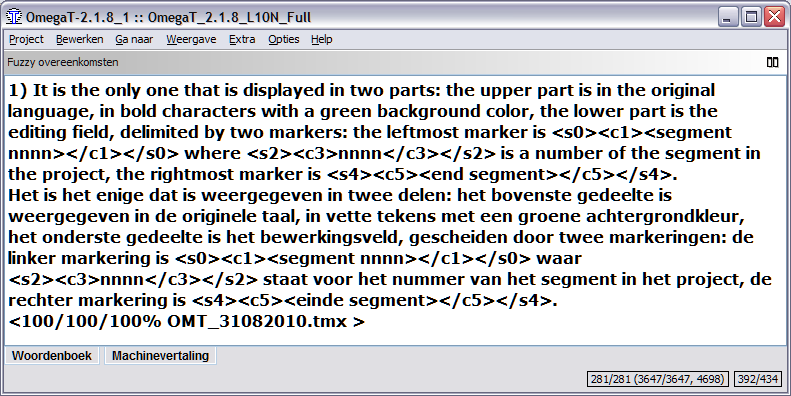
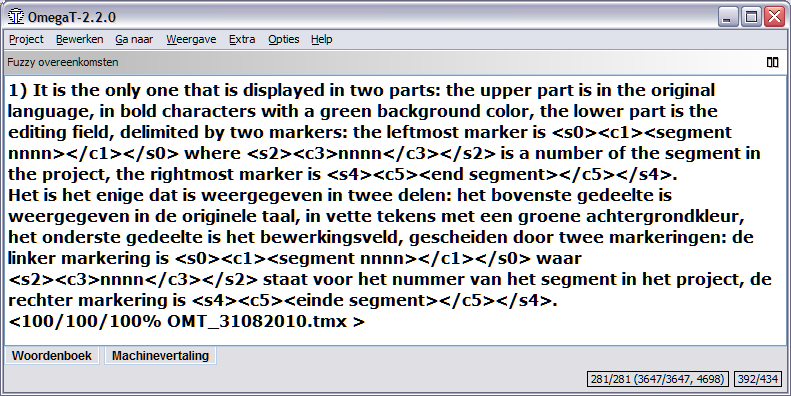
Dutch localisation updated to 2.2.0 (UI, Readme, documentation)
git-svn-id: https://omegat.svn.sourceforge.net/svnroot/omegat@3201 b0d8beef-cb45-0410-a8e4-c0d495c3b779

Changed region(s): [[0.0, 0.0, 0.3944, 0.0606]]

diff --git a/trunk/docs/nl/translationMemories.html b/trunk/docs/nl/translationMemories.html
@@ -15,7 +15,7 @@
       <ul>
         <li><a href="#TMX_files_locations_and_purpose">Locatie en doel</a></li>
 
-        <li><a href="#TMX_backup">TMX backup</a></li>
+        <li><a href="#TMX_backup">TMX back-up</a></li>
 
         <li><a href="#TMX_files_and_language">TMX en taal</a></li>
       </ul>
@@ -53,7 +53,7 @@
 
   <ul>
     <li>
-      <p>De map <em>/omegat/</em> bevat <em>project_save.tmx</em> en eventueel een aantal backups van TMX-bestanden.</p>
+      <p>De map <em>/omegat/</em> bevat <em>project_save.tmx</em> en eventueel een aantal back-ups van TMX-bestanden.</p>
 
       <p>Het bestand <em>project_save.tmx</em> bevat alle segmenten die zijn onthouden sinds u het project startte.</p>
     </li>
@@ -80,18 +80,18 @@
       </ul>
     </li>
 
-    <li>De map <em>/tm/</em> kan elk aantal TMX-bestanden bevatten. Zulke bestanden moeten correcte TMXbestanden zijn en kunnen ofwel alleen tekstuele informatie bevatten (niveau 1 TMX), OmegaT tekstuele en opmaakinformatie (omegat TMX) of TMX tekstuele en opmaakinformatie (niveau 2 TMX). De verschillen tussen hen zijn technisch van aard (zie hieronder voor de details), en als u een vertaalgeheugen uit een eerder project wilt gebruiken, zijn zij grotendeels uitwisselbaar, dat is zij zullen allemaal goed werken.
+    <li>De map <em>/tm/</em> kan elk aantal TMX-bestanden bevatten. Zulke bestanden moeten correcte TMX-bestanden zijn en kunnen ofwel alleen tekstuele informatie bevatten (niveau 1 TMX), OmegaT tekstuele en opmaakinformatie (omegat TMX) of TMX tekstuele en opmaakinformatie (niveau 2 TMX). De verschillen tussen hen zijn technisch van aard (zie hieronder voor de details), en als u een vertaalgeheugen uit een eerder project wilt gebruiken, zijn zij grotendeels uitwisselbaar, dat is zij zullen allemaal goed werken.
     </li>
   </ul>
-  <p>Optioneel kunt u OmegaT een aanvullend TMXbestand (OmegaT-stijl) laten maken, ergens waar u dat opgeeft, dat alle vertaalbare segmenten van het project bevat. Zie <a href="#pseudo_translate">pseudo-vertaald geheugen</a>.</p>
+  <p>Optioneel kunt u OmegaT een aanvullend TMX-bestand (OmegaT-stijl) laten maken, ergens waar u dat opgeeft, dat alle vertaalbare segmenten van het project bevat. Zie <a href="#pseudo_translate">pseudo-vertaald geheugen</a>.</p>
   
 
   <a name="TMX_backup" id="TMX_backup"></a>
-  <h3>TMX backup</h3>
+  <h3>TMX back-up</h3>
 
   <p>Bij het vertalen van uw bestanden slaat OmegaT al uw voortgang op in het vertaalgeheugen in de submap <em>/omegat</em> van het project.</p>
 
-  <p>OmegaT maakt ook, elke keer als een project wordt geopend of herladen, een backup van het vertaalgeheugen in <em>project_save.tmx.JAARMMDDUUMM.bak</em> in dezelfde submap. <em>JAAR</em> is 4-getallen jaar, <em>MM</em> is een maand, <em>DD</em> dag van de maand, <em>UU</em> en <em>MM</em> zijn uren en minuten van wanneer het vorige vertaalgeheugen werd opgeslagen.</p>
+  <p>OmegaT maakt ook, elke keer als een project wordt geopend of herladen, een back-up van het vertaalgeheugen in <em>project_save.tmx.JAARMMDDUUMM.bak</em> in dezelfde submap. <em>JAAR</em> is 4-getallen jaar, <em>MM</em> is een maand, <em>DD</em> dag van de maand, <em>UU</em> en <em>MM</em> zijn uren en minuten van wanneer het vorige vertaalgeheugen werd opgeslagen.</p>
 
   <p>Als u denkt dat u vertaalde gegevens kwijt bent, volg dan deze procedure:</p>
 
@@ -100,7 +100,7 @@
 
     <li>hernoem het huidige <em>project_save.tmx</em>-bestand naar iets dat u zult onthouden (zoals bijvoorbeeld <em>project_save.tmx.tijdelijk</em>)</li>
 
-    <li>selecteer de backup van het vertaalgeheugen dat meest waarschijnlijk de gegevens bevat die u nodig hebt</li>
+    <li>selecteer de back-up van het vertaalgeheugen dat meest waarschijnlijk de gegevens bevat die u nodig hebt</li>
 
     <li>hernoem het naar <em>project_save.tmx</em></li>
 
@@ -109,7 +109,7 @@
 
   <h3>TMX-bestanden en taal</h3>
 
-  <p>TMXbestanden bevatten <i>vertaaleenheden</i> die zijn gemaakt van een aantal equivalente segmenten in verschillende talen. Een vertaaleenheid bestaat uit ten minste twee <i>vertaaleenheid variaties</i> (tuv). Beide kunnen als bron of doel worden gebruikt.</p>
+  <p>TMX-bestanden bevatten <i>vertaaleenheden</i> die zijn gemaakt van een aantal equivalente segmenten in verschillende talen. Een vertaaleenheid bestaat uit ten minste twee <i>vertaaleenheid variaties</i> (tuv). Beide kunnen als bron of doel worden gebruikt.</p>
 
   <p>De instellingen in uw project zullen aangeven wat de bron- en wat de doeltaal is. OmegaT zal dus de <strong>tuv</strong> nemen die overeenkomt met de brontaalcode van het project en dat segment gebruiken als het bronsegment en het zal de <strong>tuv</strong> nemen die overeenkomt met de doeltaalcode van het project en dat segment gebruiken als het doelsegment. OmegaT herkent ze met behulp van de twee volgende standaardconventies:</p>
 
@@ -150,7 +150,7 @@
     <li>Als u een nieuw project begint voor hetzelfde onderwerp of voor dezelfde klant, navigeer naar de voorraadmap in het dialoogvenster <em>Project &gt; Eigenschappen &gt; Project bewerken</em> en selecteer het als de map voor het vertaalgeheugen.</li>
   </ul>
 
-  <p>Onthoud wel dat alle TMX-bestanden in de voorraadmap <em>/tm</em> worden geparsed tijdens het opstarten van het programma, dus als u daarin alle TMX-bestanden plaats die u tegenkomt zal dat OmegaT onnodig langzamer maken. U zou zelfs kunnen overwegen om die, welke strikt noodzakelijk zijn, uit te schakelen (bijvoorbeeld door ze in de submap <em>/tm</em> te laten staan, maar hun extensie te wijzigen), als hun inhoud eenmaal is geladen in de <em>project_save.tmx</em> van uw huidige project.</p>
+  <p>Onthoud wel dat alle TMX-bestanden in de voorraadmap <em>/tm</em> worden geparset tijdens het opstarten van het programma, dus als u daarin alle TMX-bestanden plaats die u tegenkomt zal dat OmegaT onnodig langzamer maken. U zou zelfs kunnen overwegen om die, welke strikt noodzakelijk zijn, uit te schakelen (bijvoorbeeld door ze in de submap <em>/tm</em> te laten staan, maar hun extensie te wijzigen), als hun inhoud eenmaal is geladen in de <em>project_save.tmx</em> van uw huidige project.</p>
 
   <p><a name="using_memories" id="using_memories"></a></p>
 

diff --git a/trunk/docs/nl/glossaries.html b/trunk/docs/nl/glossaries.html
@@ -39,7 +39,7 @@ Het woord voor het =-teken is de bronterm en de vertaling is (of zijn) de woorde
 <p>Woordenlijstbestanden zijn eenvoudige platte tekst-bestanden die drie-kolommen, tabgescheiden lijsten bevatten met de bron- en doeltermen in respectievelijk de eerste en tweede kolom. De derde kolom kan worden gebruikt voor aanvullende informatie. Woordenlijstbestanden kunnen of in de standaard systeemcodering (en aangegeven door de extensie <code>.tab</code>) zijn of in UTF-8 (de extensie <code>.utf8</code>). De codering Unicode (UTF8) wordt om voor de hand liggende redenen aanbevolen.</p>
 <hr>
 <h2><a name="howtocreate" id="howtocreate"></a>Hoe zijn woordenlijsten te maken</h2>
-Deze methode is ook geschikt voor "dwazen", mits op een redelijk behoedzame manier gevolgd. U heeft er OpenOffice.org Writer voor nodig, dus - als u dat al niet heeft gedaan - download en installeer OpenOffice.org. Start OpenOffice.org en open een nieuw tekstdocument of start "OpenOffice.org Writer".<br> <br> Voer uw termen voor de woordenlijst als volgt in het lege document in: een term in de brontaal, tab, de term in de doeltaal, tab, een opmerking of uitleg voor het item en dan&nbsp;Return. Tab is de tabulator-toets aan de linkerzijde van het toetsenbord. Indien u geen opmerkingen wilt toevoegen, kunt u de tweede tab weglaten. Een "term" kan één enkel woord zijn of een hele frase. Op de tweede regel voert u de tweede term en diens vertaling in. <br> Als u gereed bent met het invoeren van de termen, zult u twee "kolommen" met termen hebben, termen in de brontaal links en hun termen in de doeltaal aan recht en mogelijk een derde kolom, die uw opmerkingen en uitleg bevat. De tekens tab (→ in het voorbeeld hieronder)&nbsp;en Enter (¶&nbsp;) kunnen zichtbaar worden gemaakt door te klikken op het pictogram ¶ op de werkbalk Standaard van Writer. Hier zijn een aantal regels van een&nbsp;Engels -Duitse woordenlijst)<br>
+Deze methode is ook geschikt voor "dwazen", mits op een redelijk behoedzame manier gevolgd. U heeft er OpenOffice.org Writer voor nodig, dus - als u dat al niet heeft gedaan - download en installeer OpenOffice.org. Start OpenOffice.org en open een nieuw tekstdocument of start "OpenOffice.org Writer".<br> <br> Voer uw termen voor de woordenlijst als volgt in het lege document in: een term in de brontaal, tab, de term in de doeltaal, tab, een opmerking of uitleg voor het item en dan&nbsp;Return. Tab is de tabulator-toets aan de linkerzijde van het toetsenbord. Indien u geen opmerkingen wilt toevoegen, kunt u de tweede tab weglaten. Een "term" kan één enkel woord zijn of een hele frase. Op de tweede regel voert u de tweede term en diens vertaling in.<br> <br> Als u gereed bent met het invoeren van de termen, zult u twee "kolommen" met termen hebben, termen in de brontaal links en hun termen in de doeltaal aan recht en mogelijk een derde kolom, die uw opmerkingen en uitleg bevat. De tekens tab (→ in het voorbeeld hieronder)&nbsp;en Enter (¶&nbsp;) kunnen zichtbaar worden gemaakt door te klikken op het pictogram ¶ op de werkbalk Standaard van Writer. Hier zijn een aantal regels van een&nbsp;Engels -Duitse woordenlijst)<br>
 <br>
 <div style="font-family: Courier New,Courier,monospace;">&nbsp;&nbsp;&nbsp;
 word →Wort→das (-/e/s, Wörter/-e)¶</div>
@@ -57,7 +57,7 @@ Gebruik NIET de functie "kolommen" van OpenOffice.org om kolommen te maken:&nbsp
  style="font-style: italic;">Huidige indeling behouden</span>" en&nbsp; "<span style="font-style: italic;">Opslaan in ODF-indeling</span>". Selecteer "<span style="font-style: italic;">Huidige indeling behouden</span>" om in de bestandsindeling tekst gecodeerd op te slaan. Selecteer "<span style="font-style: italic;">Unicode (UTF-8)</span>" als de tekenset in het dialoogvenster ASCII-filteropties (zie hieronder):<br> <br> <img alt="ascii-filteropties voor woordenlijst"
  src="./images/AsciiFilteroptions.png"><br> <br> Bevestig met OK.<br> <br> Kopieer of verplaats dit bestand naar de map <span style="font-style: italic;">\glossary</span> van het project, na het maken van een OmegaT project. Als het project al is geopend, herlaad het dan na het kopiëren van het woordenlijstbestand U kunt wijzigingen maken in een woordenlijstbestand terwijl het wordt gebruikt in een project. Wijzigingen in woordenlijsten worden na ongeveer één seconde opgemerkt en wijzigingen worden transparant op de achtergrond geladen, dus is er geen reden om het project opnieuw te laden na het opslaan van het nieuwe woordenlijstbestand.<br> <br> Wanneer een segment, dat een brontekstterm bevat, wordt geopend, zal het venster Woordenlijst de items weergeven voor die termen in het bronsegment die worden gevonden in de woordenlijst (of woordenlijsten - u kunt er meer dan één beschikbaar hebben, en zij mogen ook worden opgeslagen in submappen van <i>glossary</i>).
 <h3><a name="multiterm" id="multiterm"></a>Gebruik van Trados Multiterm</h3>
-<p>Woordenlijsten die zijn gemaakt met behulp van Trados Multiterm's tekstexportfunctie kunnen bijvoorbeeld zonder verdere aanpassingen worden gebruikt als OmegaT-woordenlijsten, vooropgesteld dat zij de bestandsextensie <code>.tab</code> hebben gekregen en de bron- en doelterm-velden respectievelijk de eerste twee velden zijn. Indien u exporteert met behulp van de systeemoptie "Tabgescheiden exporteren", moet u de eerste 5 kolommen verwijderen (Seq. Nr, Datum gemaakt etc) vóór de twee items die van belang zijn.</p>
+<p>Woordenlijsten die zijn gemaakt met behulp van de functie tekstexport van Trados Multiterm kunnen bijvoorbeeld zonder verdere aanpassingen worden gebruikt als OmegaT-woordenlijsten, vooropgesteld dat zij de bestandsextensie <code>.tab</code> hebben gekregen en de bron- en doelterm-velden respectievelijk de eerste twee velden zijn. Indien u exporteert met behulp van de systeemoptie "Tabgescheiden exporteren", moet u de eerste 5 kolommen verwijderen (Seq. Nr, Datum gemaakt etc) vóór de twee items die van belang zijn.</p>
 <hr>
 <h2><a name="commonglossaryproblems" id="commonglossaryproblems"></a>Algemene problemen met woordenlijsten</h2>
 <dl>

diff --git a/trunk/docs/nl/filesAndDirectories.html b/trunk/docs/nl/filesAndDirectories.html
@@ -30,7 +30,7 @@
   <ul>
     <li>Projectbestanden vertaling: Zij vormen een vertaalproject. Verlies van deze bestanden kan de integriteit van het project beïnvloeden alsmede de mogelijkheid van het voltooien van uw werk. Projectbestanden zijn de meest belangrijke bestanden in OmegaT. Het zijn de bestanden waarmee u dagelijks hebt te maken bij het vertalen.</li>
 
-    <li>Bestanden voor gebruikersinstellingen: Zij worden gemaakt als het gedrag van OmegaT wordt gewijzigd met voorkeursinstellingen die voor de gebruiker toegankelijk zijns. Verlies van deze bestanden zorgt er meestal voor dat OmegaT zal werken met "fabrieks"instellingen. Dit kan soms enige problemen geven als u midden in een vertaling bent.</li>
+    <li>Bestanden voor gebruikersinstellingen: Zij worden gemaakt als het gedrag van OmegaT wordt gewijzigd met voorkeursinstellingen die voor de gebruiker toegankelijk zijn. Verlies van deze bestanden zorgt er meestal voor dat OmegaT zal werken met "fabrieks"instellingen. Dit kan soms enige problemen geven als u midden in een vertaling bent.</li>
 
     <li>Toepassingsbestanden: Zij zijn opgenomen in het pakket dat u hebt gedownload, de meeste er van zijn nodig om OmegaT juist te laten functioneren. Als door enige oorzaak deze bestanden verloren gaan, download en herinstalleer dan OmegaT om ze allemaal terug te zetten.</li>
   </ul>
@@ -65,7 +65,7 @@
 
   <dl>
     <dt>De submap <b>omegat</b> zal uiteindelijk een aantal bestanden bevatten, het meest belangrijke daaronder is het bestand met het vertaalgeheugen <em>project_save.tmx</em> (<a href="translationMemories.html">...</a>). Het bestand <em>project_save.tmx</em> is het werkende vertaalgeheugen voor het project. Met de geactiveerde functie Automatisch opslaan wordt het automatisch bijgewerkt als u stopt. Het is het vertaalgeheugen dat wordt gebruikt om de vertaalde bestanden te maken. Een aantal bestanden met namen in de vorm project_save.tmx.<i>&lt;datum en tijd</i>&gt;.bak (<a href=
-    "translationMemories.html#TMX_backup">...</a>) zullen later aan deze submap worden toegevoegd. Zij dienen als backup voor het vertaalgeheugen van het project en worden, iedere keer als u een project opnieuw opent, bijgewerkt om de inhoud van het project weer te geven, voordat de huidige sessie die heeft veranderd.</dt>
+    "translationMemories.html#TMX_backup">...</a>) zullen later aan deze submap worden toegevoegd. Zij dienen als back-up voor het vertaalgeheugen van het project en worden, iedere keer als u een project opnieuw opent, bijgewerkt om de inhoud van het project weer te geven, voordat de huidige sessie die heeft veranderd.</dt>
 
     <dd>Het bestand <b>stats.txt</b> (<a href="userInterface.html#files">...</a>) bevat de statistieken over het huidige project en kan worden geopend in een werkbladtoepassing om segment- en informatie over de telling van woorden weer te geven. De informatie die het bevat is meer gedetailleerd dan wat er wordt weergegeven in het venster <em>Projectbestanden</em>. De bestanden <strong>ignored_words.txt</strong> en <strong>learned_words.txt</strong>, indien zij bestaan, zullen worden gebruikt door de spellingscontrole.</dd>
   </dl>
@@ -245,7 +245,7 @@
   <h3><a name="application" id="application"></a>Toepassingsbestanden</h3>
 
   <p>OmegaT bestaat uit een pakket dat u kunt downloaden vanaf SourceForge. In dit hoofdstuk gaan we uit van het <a href=
-  "installingAndRunning.html#Andere_systemen">platformonafhankelijke pakket</a> dat de toepassing in een standaard Java-vorm bevat. Andere pakketten zijn: een Linux <code>.tar</code> pakket, een Windows-installatieprogramma -met of zonder een Java Runtime Environment, een MacOSX-installatieprogramma en een broncodepakket voor ontwikkelaars. Dit platformonafhankelijke pakket kan worden gebruikt op <strong>elk</strong> platform met een werkende Java 1.5 runtime omgeving, inclusief de platforms waarvoor een specifiek pakket bestaat. Het platformonafhankelijke pakket bestaat uit een gecomprimeerd bestand dat u in de map van uw keuze moet uitpakken bij de installatie. Uitpakken wordt gewoonlijk gedaan door te dubbelklikken op het gedownloade pakket. Eenmaal uitgepakt zal een map zijn gemaakt die de de volgende inhoud zal bevatten:</p>
+  "installingAndRunning.html#Andere_systemen">platform onafhankelijke pakket</a> dat de toepassing in een standaard Java-vorm bevat. Andere pakketten zijn: een Linux <code>.tar</code> pakket, een Windows-installatieprogramma -met of zonder een Java Runtime Environment, een MacOSX-installatieprogramma en een broncodepakket voor ontwikkelaars. Dit platform onafhankelijke pakket kan worden gebruikt op <strong>elk</strong> platform met een werkende Java 1.5 runtime omgeving, inclusief de platforms waarvoor een specifiek pakket bestaat. Het platform onafhankelijke pakket bestaat uit een gecomprimeerd bestand dat u in de map van uw keuze moet uitpakken bij de installatie. Uitpakken wordt gewoonlijk gedaan door te dubbelklikken op het gedownloade pakket. Eenmaal uitgepakt zal een map zijn gemaakt die de volgende inhoud zal bevatten:</p>
 
   <table width="100%" border="1" cellpadding="4" cellspacing="0" summary=
   "just formatting">

diff --git a/trunk/docs/nl/spellchecker.html b/trunk/docs/nl/spellchecker.html
@@ -53,16 +53,16 @@
   <p>Klikken op <b>Opties &gt; Spellingscontrole...</b> zal het onderstaande venster openen:</p>
 
   <p><br></p><img src="images/SpellcheckerSetup2.png" name="grafika2" alt=
-  "Instellen spellingscontrole" align="left" width="498" height="325" border="0" id=
+  "Opties voor spellingscontrole" align="left" border="0" id=
   "grafika2"><br clear="left">
 
   <p><br></p>
 
   <p>Het bovenstaande voorbeeld bevat reeds de beschikbare woordenboeken. Initieel zal er niets in staan omdat u moet specificeren waar OmegaT moet zoeken naar de woordenboeken. Klik op <strong>Kies...</strong> om een dialoogvenster te openen waar u een submap kunt selecteren met bestaande woordenboeken van OpenOffice.org of Mozilla. De eenvoudigste manier om ze te vinden is om te zoeken naar bestanden met de extensies <i>aff</i> of <i>dic</i>. OmegaT zal alle beschikbare geldige woordenboeken op die locatie herkennen en ze weergeven. Als het woordenboek dat u wilt gebruiken daar al staat en zichtbaar is voor OmegaT, bent u klaar. Als er geen woordenboeken werden gevonden kunt u er een toepasselijke plaats voor kiezen en dan klikken op <b>Installeren</b> en OmegaT laten zoeken naar beschikbare woordenboeken. Selecteer de woordenboeken die u nodig hebt in het pop-upvenster en klik dan op <b>installeren</b>. De geselecteerde talen zullen dan worden geïnstalleerd en verschijnen uiteindelijk in het venster Instellen spellingscontrole (dit kan even duren).</p>
 
-  <p>Onthoud dat het installatieprogramma afhankelijk is van de lijst met woordenboeken op het internet. In het geval dat die gedateerd is of de gewenste taal niet beschikbaar is zult u zelf moeten zoeken naar de woordenboeken. OpenOffice.org bevat waarschijnlijk de grootste collectie woordenboeken op de site &lt;a3&gt;OpenOffice.org Dictionaries&lt;/a3&gt;. Nadat de extensie met het woordenboek is gedownload en geïnstalleerd, zullen de corresponderende <i>aff</i> en <i>dic</i> beschikbaar komen. Hetzelfde kan worden bereikt door een extensie voor spellingscontrole toe te voegen aan Firefox of Thunderbird; in dit geval zullen de bestanden van de spellingscontrole worden opgeslagen in uw profiel (Firefox of Thunderbird).</p>
+  <p>Onthoud dat het installatieprogramma afhankelijk is van de lijst met woordenboeken op het internet. In het geval dat die gedateerd is of de gewenste taal niet beschikbaar is zult u zelf moeten zoeken naar de woordenboeken. OpenOffice.org bevat waarschijnlijk de grootste collectie woordenboeken op de site <a href="http://extensions.services.openoffice.org/dictionary">OpenOffice.org Dictionaries</a>. Nadat de extensie met het woordenboek is gedownload en geïnstalleerd, zullen de corresponderende <i>aff</i> en <i>dic</i> beschikbaar komen. Hetzelfde kan worden bereikt door een extensie voor spellingscontrole toe te voegen aan Firefox of Thunderbird; in dit geval zullen de bestanden van de spellingscontrole worden opgeslagen in uw profiel (Firefox of Thunderbird).</p>
 
-  <p>Zorg er voor dat de taalcode van de doelbestanden correspondeert met de taalcode van het woordenboek: een FR-FR woordenboek zal niet werken met de instelling FR voor het doel. U zult de instelling naar FR-FR moeten wijzigen om de spellingscontrole het juiste woordenboek voor uw doel te laten herkennen. Zoek naar bestanden met de naam, verwijzend naar de gebruikte taal en die de extensies <i>aff</i> en &lt;i2&gt;dic.&lt;/i2&gt; hebben.</p>
+  <p>Zorg er voor dat de taalcode van de doelbestanden correspondeert met de taalcode van het woordenboek: een FR-FR woordenboek zal niet werken met de instelling FR voor het doel. U zult de instelling naar FR-FR moeten wijzigen om de spellingscontrole het juiste woordenboek voor uw doel te laten herkennen. Zoek naar bestanden met de naam, verwijzend naar de gebruikte taal en die de extensies <i>aff</i> en <i>dic.</i> hebben.</p>
 
   <h3><a name="Hints" id="Hints"></a>Hints</h3>
 
@@ -74,7 +74,7 @@
     </li>
 
     <li>
-      <p>Controleer de taalcode van uw doel met de beschikbare woordenboeken in het venster Instellen spellingscontrole. De spellingscontrole bepaalt de taal die het moet gebruiken uit de taalcode van het doel: als de taalcode voor het doel Braziliaans Portugees (PT_BR) is, moet de submap met woordenboeken de twee woordenboekbestanden, genaamd pt_br.aff en pt_br.dic, bevatten.</p>
+      <p>Controleer de taalcode van uw doel met de beschikbare woordenboeken in het venster Instellen spellingscontrole. De spellingscontrole bepaalt de taal die het moet gebruiken uit de taalcode van het doel: als de taalcode voor het doel Braziliaans Portugees (PT_BR) is, moet de submap met woordenboeken de twee woordenboekbestanden, genaamd <i>pt_br.aff</i> en <i>pt_br.dic</i>, bevatten.</p>
     </li>
   </ol>
 

diff --git a/trunk/docs/nl/installingAndRunning.html b/trunk/docs/nl/installingAndRunning.html
@@ -279,7 +279,7 @@
 
   <p>Dubbelklik op het programma dat u hebt gedownload en  volg de instructies om OmegaT te installeren. </p>
 
-  <h3><a name="windows_menu" id="windows_menu"></a>OmegaT toevoegen aan het startmenu of bureaublad</h3>
+  <h3><a name="windows_menu" id="windows_menu"></a>OmegaT toevoegen aan het menu Start of bureaublad</h3>
 
   <p>Gedurende de installatie zal het programma u vragen of u een map in het menu <em>Start</em> wilt maken en of u een snelkoppeling op het bureaublad en het systeemvak wilt maken.</p>
 
@@ -317,11 +317,11 @@
 
   <p>Als u de Java-startparameters vanaf de opdrachtregel wilt wijzigen kunt u de standaardinstellingen van OmegaT.app aanpassen door het bewerken van het bestand <em>Info.plist</em> dat zich bevind in <em>OmegaT.app/Contents/</em>. Open het bestand "Info.plist" door er met rechts op te klikken en de tekstbewerker van uw keuze te kiezen. U kunt het gedeelte <em>Properties</em> en ook het gedeelte <em>VMOptions</em> aanpassen. Indien u waarden wilt toevoegen aan <em>VMOptions</em>, plaatst u er een spatie tussen. Bijvoorbeeld: <code>-Xmx1024M -Duser.language=ja</code> zal OmegaT opstarten met 1024MB aan geheugen en de gebruikersinterface in het Japans.</p>
 
-  <p>Direct opstarten van <em>OmegaT.app</em> maakt het niet mogelijk om meerdere instances van <em>OmegaT.app</em> uit te voeren. Als u meerdere instances van <em>OmegaT.app</em> moet uitvoeren, gebruik dan in plaats daarvan het bestand <em>JavaApplicationStub</em> dat zich bevind in <em>OmegaT.app/ Contents/MacOS/</em>.</p>
+  <p>Direct opstarten van <em>OmegaT.app</em> maakt het niet mogelijk om meerdere instances van <em>OmegaT.app</em> uit te voeren. Als u meerdere instanties van <em>OmegaT.app</em> moet uitvoeren, gebruik dan in plaats daarvan het bestand <em>JavaApplicationStub</em> dat zich bevind in <em>OmegaT.app/ Contents/MacOS/</em>.</p>
 
   <p>Het is niet mogelijk om de Lucene stemmer te gebruiken uit het pakket <em>OmegaT.app</em>. U moet OmegaT uitvoeren vanaf de opdrachtregel (zie hieronder).</p>
 
-  <p>Roep het bestand <em>OmegaT.jar</em> aan dat zich bevind in <em>OmegaT.app/Contents/Resources/ Java/</em> om startparameters van Java te wijzigen vanaf de opdrachtregel. Opstarten van <em>OmegaT.app</em> vanaf de opdrachtregel is hetzelfde als het gebruiken van het "algemene" pakket van OmegaT. U zult in staat zijn om meerdere instances van OmegaT uit te voeren en ook om de Lucene stemmer te gebruiken. Bekijk "Starten vanaf de opdrachtregel" hieronder voor meer informatie.</p>
+  <p>Roep het bestand <em>OmegaT.jar</em> aan dat zich bevind in <em>OmegaT.app/Contents/Resources/ Java/</em> om startparameters van Java te wijzigen vanaf de opdrachtregel. Opstarten van <em>OmegaT.app</em> vanaf de opdrachtregel is hetzelfde als het gebruiken van het "algemene" pakket van OmegaT. U zult in staat zijn om meerdere instanties van OmegaT uit te voeren en ook om de Lucene stemmer te gebruiken. Bekijk "Starten vanaf de opdrachtregel" hieronder voor meer informatie.</p>
 
   <p>Klik met rechts op <em>OmegaT.app</em> en selecteer "Show Package Contents", of "cd" daar direct naar toe vanaf de opdrachtregel om toegang te krijgen tot een locatie binnen het pakket <em>OmegaT.app</em>.</p>
 
@@ -396,7 +396,7 @@
 
   <h3>Methode 1: openen van een venster voor de opdrachtregel</h3>
 
-  <p>Een venster voor de opdrachtregel wordt ook wel een "terminalvenster" genoemd. Op Windows wordt het een "MS-DOSvenster" genoemd en is het beschikbaar via het Startmenu, in Alle programma's → Bureau-accessoires, via het item "Opdrachtprompt". Het equivalent voor de Mac OS X is de toepassing Terminal die zich bevind in Programma's → Hulpprogramma's.</p>
+  <p>Een venster voor de opdrachtregel wordt ook wel een "terminalvenster" genoemd. Op Windows wordt het een "MS-DOSvenster" genoemd en is het beschikbaar via het menu Start, in Alle programma's → Bureau-accessoires, via het item "Opdrachtprompt". Het equivalent voor de Mac OS X is de toepassing Terminal die zich bevind in Programma's → Hulpprogramma's.</p>
 
   <p>U moet normaal gesproken twee opdrachten typen om OmegaT te starten. De eerste hiervan is:</p>
 

diff --git a/trunk/docs/nl/userInterface.html b/trunk/docs/nl/userInterface.html
@@ -44,6 +44,11 @@
                 <li>
                   <p><a href="#Match">venster Overeenkomsten</a></p>
                 </li>
+
+                <li>
+                  <p><a href="#Glossary">venster Woordenlijst</a></p>
+                </li>
+
                 <li>
                   <p><a href="#Glossary">venster Woordenlijst</a></p>
                 </li>
@@ -495,7 +500,7 @@
   <dl>
     <dt>Er zijn twee <a href="searches.html#searchmethods">typen</a> om te zoeken beschikbaar:</dt>
 
-    <dt>Exact zoeken zoekt naar de gespecificeerde zoekreeks binnen het huidige project of in een willekeurige map of mapgedeelte.</dt>
+    <dt><strong>Exact zoeken</strong> zoekt naar de gespecificeerde zoekreeks binnen het huidige project of in een willekeurige map of mapgedeelte.</dt>
 
     <dt><strong>Zoeken op sleutelwoorden -</strong> onderzoekt het huidige project en geeft alle segmenten weer die alle gezochte woorden bevatten, in willekeurige volgorde.</dt>
   </dl>
@@ -530,7 +535,7 @@
   <p>De tags worden vet blauw geaccentueerd voor eenvoudige vergelijking tussen de originele en de vertaalde inhoud. Klik op de koppeling om naar het segment in het venster Bewerken te springen. Verbeter, indien nodig, de fout en druk op <code><a href="menu.html#shortcuts">Ctrl+T</a></code> om terug te keren naar het venster Tags valideren om andere fouten te corrigeren. In het eerste en derde geval hierboven waren tags niet correct gepaard en in het tweede geval ontbreekt bij de openingstag het &lt;-teken.</p>
 
   <p><a href="formattedText.html#intro">Tag</a>-fouten zijn <a href=
-  "formattedText.html#tag_operation">tagbewerkingen</a> in de vertaling die niet dezelfde tagvolgorde en nummering teruggeven als die in het originele segment. Sommige tagbewerkingen zijn noodzakelijk en zijn goedaardig, sommige zullen problemen veroorzaken als het vertaalde document wordt gemaakt. Tags vertegenwoordigen meestal enige vorm van opmaak in de originele tekst. <strong>Vereenvoudigen van de originele tekstopmaak</strong> draagt enorm bij tot het verminderen van het aantal tags.</p>
+  "formattedText.html#tag_operation">tagbewerkingen</a> in de vertaling die niet dezelfde tagvolgorde en nummering teruggeven als die in het originele segment. Sommige tagbewerkingen zijn noodzakelijk en zijn goedaardig, sommige zullen problemen veroorzaken als het vertaalde document wordt gemaakt. Tags vertegenwoordigen meestal enige vorm van opmaak in de originele tekst. <strong>Vereenvoudigen van de opmaak van de originele tekst</strong> draagt enorm bij aan het verminderen van het aantal tags.</p>
 
   <h3>Help-browser</h3>
 

diff --git a/trunk/docs/nl/filesToTranslate.html b/trunk/docs/nl/filesToTranslate.html
@@ -133,7 +133,7 @@
   <h3><a name="tagged" id="tagged"></a>Opgemaakte tekstbestanden</h3>
 
   <p>Opgemaakte tekstbestanden bevatten zowel tekst als informatie, zoals lettertype, afmeting, kleur etc. Zij worden normaal gesproken gemaakt met tekstbewerkingsprogramma's of programma's voor het maken van homepages. Zulke bestanden worden zodanig opgeslagen dat zij hun opmaakinformatie behouden. Zulke opmaakinformatie kan eenvoudig zijn zoals <strong>dit is vet</strong> of zo complex als tabelgegevens met verschillende lettertype-afmetingen, kleur, positie etc. In de meeste vertalingen wordt het belangrijk geacht dat het vertaalde document er uitziet zoals het origineel. OmegaT stelt u in staat om dit te doen door het markeren van de tekens/woorden die een speciale opmaak hebben met eenvoudig te bewerken <a href="formattedText.html">tags</a>. Vereenvoudigen van de opmaak van de originele tekst draagt enorm bij aan het verminderen van het aantal tags. Het gelijk maken van gebruikte lettertypen, lettertype-afmetingen, kleuren etc zou indien mogelijk moeten worden overwogen, om het vertalen te vereenvoudigen en het verminderen van het aantal mogelijke <a href=
-  "userInterface.html#Tag_validation">fouten in tags</a>. Elk bestandstype wordt verschillend behandeld in OmegaT. Specifiek gedrag kan worden ingesteld in de <a href="fileFilters.html">bestandsfilters</a>. Momenteel ondersteunt OmegaT de volgende formaten voor opgemaakte tekst:</p>
+  "userInterface.html#Tag_validation">fouten in tags</a>. <a name="specifics" id="specifics"></a> Elk bestandstype wordt verschillend behandeld in OmegaT. Specifiek gedrag kan worden ingesteld in de <a href="fileFilters.html">bestandsfilters</a>. Momenteel ondersteunt OmegaT de volgende formaten voor opgemaakte tekst:</p>
 
   <ul>
     <li>

diff --git a/trunk/docs/nl/xindex.html b/trunk/docs/nl/xindex.html
@@ -231,10 +231,15 @@
         <td width="20%"><a href=
         "installingAndRunning.html#Windows_users">Windows-gebruikers</a></td>
 
+        <td width="20%"><a href="installingAndRunning.html#MacOSX_users">MacOSX
+        users</a></td>
+
         <td width="20%"><a href="installingAndRunning.html#Andere_systemen">Andere systemen</a></td>
 
         <td width="20%"><a href="installingAndRunning.html#build_which">Pakket om te downloaden</a></td>
+      </tr>
 
+      <tr>
         <td width="20%"><a href=
         "installingAndRunning.html#source_build">OmegaT bouwen vanuit de bron</a></td>
       </tr>
@@ -265,7 +270,7 @@
 
       <tr>
         <td width="20%"><a href=
-        "http://tech.groups.yahoo.com/group/OmegaT/database?method=reportRows&amp;tbl=1">
+        "http://tech.groups.yahoo.com/group/OmegaT/database?method=reportRows&tbl=1">
         OmegaT FAQ's</a></td>
 
         <td width="20%"><a href=
@@ -275,7 +280,7 @@
         <td width="20%"><a href="website.html">Rapport met problemen</a></td>
 
         <td width="20%"><a href=
-        "http://sourceforge.net/tracker/?group_id=68187&amp;atid=520347">Foutenrapporten</a></td>
+        "http://sourceforge.net/tracker/?group_id=68187&atid=520347">Foutenrapporten</a></td>
 
         <td width="20%"><a href="license.txt">Gnu algemene publieke licentie</a></td>
       </tr>
@@ -625,8 +630,7 @@
         <td width="20%"><a href=
         "translationMemories.html#TMX_files_location_and_purpose">TMX - bestanden locatie</a></td>
 
-        <td width="20%"><a href="translationMemories.html#TMX_backup">TMX -
-        backup</a></td>
+        <td width="20%"><a href="translationMemories.html#TMX_backup">TMX - back-up</a></td>
       </tr>
 
       <tr>

diff --git a/trunk/docs/nl/formattedText.html b/trunk/docs/nl/formattedText.html
@@ -85,7 +85,7 @@
   <p>Als echter de standaard segmentatieregels op dit segment worden toegepast (het standaard OmegaT-gedrag) krijgen we het volgende resultaat:</p>
   <pre>
  <strong>&lt;segment 1990&gt;</strong> <font color=
-"#FB0000">&lt;b0&gt;</font>Vóór: \. &lt;einde segment&gt;
+"#FB0000">&lt;b0&gt;</font>Vóór: \. <strong>&lt;einde segment&gt;</strong><br>
 <strong>&lt;segment 1991&gt;</strong> Na: \s<font color=
 "#FB0000">&lt;/b0&gt;</font><strong>&lt;einde segment&gt;</strong> <br>
 </pre>
@@ -250,7 +250,7 @@ echo printf(_("OmegaT is erg %s"),$var);</pre>
   <p>Volledige validatie ondersteunt deze indeling volledig, met uitzondering van de <code>WIDTHSPECIFIER</code>. In eenvoudige validatie wordt de volgende syntaxis gecontroleerd:</p>
   <pre>"%" [ARGUMENTSWAPSPECIFIER] [PRECISIONSPECIFIER] TYPESPECIFIER</pre>
 
-  <p>U kunt de volgorde van de aanduidingen wijzigen, maar dan moet u de ARGUMENTSWAPSPECIFIER toevoegen als die er nog niet staat. Dit betekent het toevoegen van een reeksnummer en een dollarteken na de <code>%</code>. Bijv. <code>"%s is een %s toepassing"</code> is gelijk aan <code>"%1$s is een %2$s toepassing"</code> die u kunt vertalen door <code>"a %2$s toepassing is %1$s"</code>.
+  <p>U kunt de volgorde van de aanduidingen wijzigen, maar dan moet u de ARGUMENTSWAPSPECIFIER toevoegen als die er nog niet staat. Dit betekent het toevoegen van een reeksnummer en een dollarteken na de <code>%</code>. Bijv. <code>"%s is een %s toepassing"</code> is gelijk aan <code>"%1$s is een %2$s toepassing"</code> die u kunt vertalen door <code>"een %2$s toepassing is %1$s"</code>.
   </p>
   <hr>
 

diff --git a/trunk/docs/nl/website.html b/trunk/docs/nl/website.html
@@ -13,10 +13,10 @@
 
   <p>De <a href="http://www.omegat.org/">OmegaT-website</a> bevat koppelingen naar verschillende bronnen voor OmegaT, dus u zou daar kunnen beginnen. Ondersteuning voor gebruikers wordt gegeven op vrijwillige basis op de <a href=
   "http://groups.yahoo.com/group/OmegaT/">OmegaT Yahoo gebruikersgroep</a>. De hoek met <a href=
-  "http://tech.groups.yahoo.com/group/OmegaT/database?method=reportRows&amp;tbl=1"> FAQ's</a> daar zou een goed begin kunnen zijn voor uw vragen. OmegaT heeft ook een IRC (Internet Relay Chat)-kanaal op FreeNode: #omegat. Nieuwe versies van OmegaT kunnen worden gedownload van <a href=
+  "http://tech.groups.yahoo.com/group/OmegaT/database?method=reportRows&tbl=1"> FAQ's</a> daar zou een goed begin kunnen zijn voor uw vragen. OmegaT heeft ook een IRC (Internet Relay Chat)-kanaal op FreeNode: #omegat. Nieuwe versies van OmegaT kunnen worden gedownload van <a href=
   "http://sourceforge.net/projects/omegat/">OmegaT SourceForge.net Project</a>, waar u ook <a href=
-  "http://sourceforge.net/tracker/?group_id=68187&amp;atid=520347">foutenrapporten</a> en <a href=
-  "http://sourceforge.net/tracker/?group_id=68187&amp;atid=520350">verzoeken voor verbeteringen</a> kunt indienen.</p>
+  "http://sourceforge.net/tracker/?group_id=68187&atid=520347">foutenrapporten</a> en <a href=
+  "http://sourceforge.net/tracker/?group_id=68187&atid=520347">verzoeken voor verbeteringen</a> kunt indienen.</p>
 
   <h3>Foutenrapporten</h3>
 

diff --git a/trunk/docs/nl/menu.html b/trunk/docs/nl/menu.html
@@ -286,7 +286,7 @@
 
       <tr bgcolor="#FFFFFF">
         <td colspan="3">
-          <p>Het menu Bewerken bevat de volgende sneltoetsen:</p>
+          <p>Het menu <strong>Bewerken</strong> bevat de volgende sneltoetsen:</p>
 
       </td></tr><tr bgcolor="#DDDDDD">
         <td>
@@ -568,7 +568,7 @@
         </td>
 
         <td>
-          <p>Controleert op missende of misplaatste tags in opgemaakte bestanden. Zal een lijst weergeven waarin de segmenten met tagfouten staan. De sectie over het venster <a href=
+          <p>Controleert op ontbrekende of misplaatste tags in opgemaakte bestanden. Zal een lijst weergeven waarin de segmenten met tagfouten staan. De sectie over het venster <a href=
           "userInterface.html#Tag_validation">Tags valideren</a> laat zien wat u daar ziet en <a href="formattedText.html">Werken met opgemaakte tekst</a> vertelt u waarom.</p>
         </td>
       </tr>
@@ -1128,7 +1128,7 @@
         </td>
 
         <td>
-          <p>Opent een nieuw venster &lt;a0&gt;Zoeken&lt;/a0&gt;.</p>
+          <p>Opent een nieuw venster Zoeken.</p>
         </td>
       </tr>
 

diff --git a/trunk/docs/nl/preventingDataLoss.html b/trunk/docs/nl/preventingDataLoss.html
@@ -20,7 +20,7 @@
 
     <li>hernoem het huidige <code>project_save.tmx</code>-bestand naar iets dat u zult onthouden (zoals bijvoorbeeld <code>project_save.tmx.tijdelijk</code>)</li>
 
-    <li>selecteer de backup van het vertaalgeheugen dat meest waarschijnlijk de gegevens bevat die u nodig hebt</li>
+    <li>selecteer de back-up van het vertaalgeheugen dat meest waarschijnlijk de gegevens bevat die u nodig hebt</li>
 
     <li>hernoem het naar <code>project_save.tmx</code></li>
 
@@ -30,7 +30,7 @@
   <p>Voorkomen van verlies van belangrijke gegevens:</p>
 
   <ul>
-    <li>Maak regelmatig kopieën van het bestand <code>/omegat/project_save.tmx</code> naar backupmedia, zoals CD of DVD.</li>
+    <li>Maak regelmatig kopieën van het bestand <code>/omegat/project_save.tmx</code> naar back-upmedia, zoals CD of DVD.</li>
 
     <li>Maak met regelmatige tussenpozen de vertaalde bestanden en controleer of dat vertaalde bestand de laatste versie van uw vertaling bevat, totdat u zich OmegaT eigen hebt gemaakt.</li>
 
